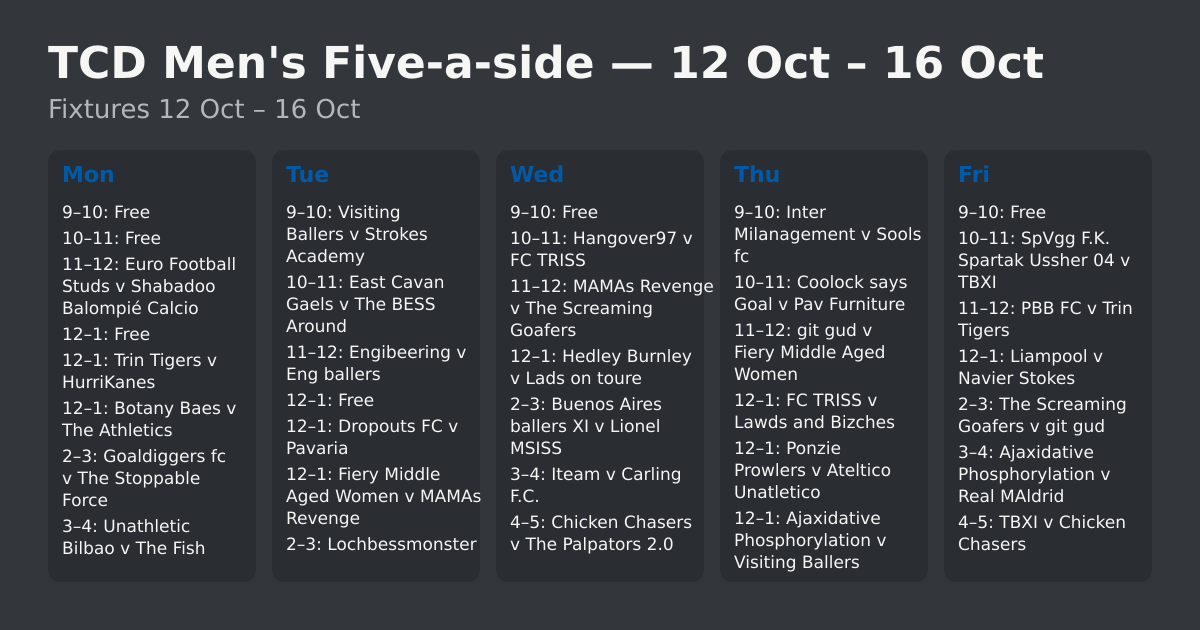
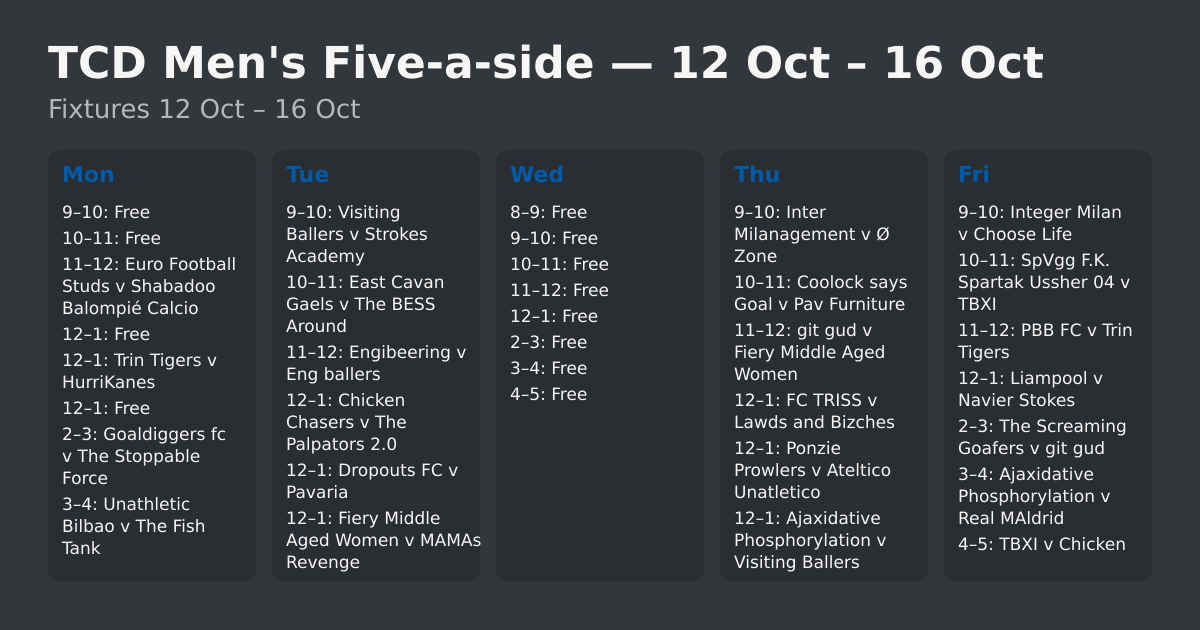
Sync fixtures from Google Sheet

diff --git a/src/data/seed.js b/src/data/seed.js
@@ -129,38 +129,33 @@ const WEEKS = [
     tab: 'Week 3 12th',
     matches: [
       { day: 'tuesday', time: '9-10am', venue: 'botany_bay', home: 'Visiting Ballers', away: 'Strokes Academy', color: '#D5A6BD', division: 'Division 7' },
-      { day: 'thursday', time: '9-10am', venue: 'botany_bay', home: 'Inter Milanagement', away: 'Sools fc', color: '#B6D7A8', division: 'Division 4' },
+      { day: 'thursday', time: '9-10am', venue: 'botany_bay', home: 'Inter Milanagement', away: 'Ø Zone', color: '#B6D7A8', division: 'Division 4' },
+      { day: 'friday', time: '9-10am', venue: 'botany_bay', home: 'Integer Milan', away: 'Choose Life', color: '#EA9999', division: 'Division 1' },
       { day: 'tuesday', time: '10-11am', venue: 'botany_bay', home: 'East Cavan Gaels', away: 'The BESS Around', color: '#F9CB9C', division: 'Division 2' },
-      { day: 'wednesday', time: '10-11am', venue: 'botany_bay', home: 'Hangover97', away: 'FC TRISS', color: '#FFE599', division: 'Division 3' },
       { day: 'thursday', time: '10-11am', venue: 'botany_bay', home: 'Coolock says Goal', away: 'Pav Furniture', color: '#FFE599', division: 'Division 3' },
       { day: 'friday', time: '10-11am', venue: 'botany_bay', home: 'SpVgg F.K. Spartak Ussher 04', away: 'TBXI', color: '#A4C2F4', division: 'Division 5' },
       { day: 'monday', time: '11-12pm', venue: 'botany_bay', home: 'Euro Football Studs', away: 'Shabadoo Balompié Calcio', color: '#6AA84F', division: 'Mixed Division' },
       { day: 'tuesday', time: '11-12pm', venue: 'botany_bay', home: 'Engibeering', away: 'Eng ballers', color: '#EA9999', division: 'Division 1' },
-      { day: 'wednesday', time: '11-12pm', venue: 'botany_bay', home: 'MAMAs Revenge', away: 'The Screaming Goafers', color: '#6AA84F', division: 'Mixed Division' },
       { day: 'thursday', time: '11-12pm', venue: 'botany_bay', home: 'git gud', away: 'Fiery Middle Aged Women', color: '#6AA84F', division: 'Mixed Division' },
       { day: 'friday', time: '11-12pm', venue: 'botany_bay', home: 'PBB FC', away: 'Trin Tigers', color: '#B4A7D6', division: 'Division 6' },
-      { day: 'wednesday', time: '12-1pm', venue: 'botany_bay', home: 'Hedley Burnley', away: 'Lads on toure', color: '#F9CB9C', division: 'Division 2' },
+      { day: 'tuesday', time: '12-1pm', venue: 'botany_bay', home: 'Chicken Chasers', away: 'The Palpators 2.0', color: '#A4C2F4', division: 'Division 5' },
       { day: 'thursday', time: '12-1pm', venue: 'botany_bay', home: 'FC TRISS', away: 'Lawds and Bizches', color: '#6AA84F', division: 'Mixed Division' },
       { day: 'friday', time: '12-1pm', venue: 'botany_bay', home: 'Liampool', away: 'Navier Stokes', color: '#F9CB9C', division: 'Division 2' },
       { day: 'monday', time: '2-3pm', venue: 'botany_bay', home: 'Goaldiggers fc', away: 'The Stoppable Force', color: '#D5A6BD', division: 'Division 7' },
       { day: 'tuesday', time: '2-3pm', venue: 'botany_bay', home: 'Lochbessmonster', away: 'TPSG', color: '#FFE599', division: 'Division 3' },
-      { day: 'wednesday', time: '2-3pm', venue: 'botany_bay', home: 'Buenos Aires ballers XI', away: 'Lionel MSISS', color: '#FFE599', division: 'Division 3' },
       { day: 'thursday', time: '2-3pm', venue: 'botany_bay', home: 'CSB FC', away: 'Reels Betis', color: '#B6D7A8', division: 'Division 4' },
       { day: 'friday', time: '2-3pm', venue: 'botany_bay', home: 'The Screaming Goafers', away: 'git gud', color: '#6AA84F', division: 'Mixed Division' },
       { day: 'monday', time: '3-4pm', venue: 'botany_bay', home: 'Unathletic Bilbao', away: 'The Fish Tank', color: '#B6D7A8', division: 'Division 4' },
       { day: 'tuesday', time: '3-4pm', venue: 'botany_bay', home: 'Wings of a Sparrow', away: 'River dodder rodent', color: '#B4A7D6', division: 'Division 6' },
-      { day: 'wednesday', time: '3-4pm', venue: 'botany_bay', home: 'Iteam', away: 'Carling F.C.', color: '#A4C2F4', division: 'Division 5' },
       { day: 'thursday', time: '3-4pm', venue: 'botany_bay', home: 'Ø Zone', away: 'Real Medrid', color: '#B6D7A8', division: 'Division 4' },
       { day: 'friday', time: '3-4pm', venue: 'botany_bay', home: 'Ajaxidative Phosphorylation', away: 'Real MAldrid', color: '#D5A6BD', division: 'Division 7' },
       { day: 'monday', time: '4-5pm', venue: 'botany_bay', home: 'Ctrl Alt Defeat', away: 'Roman Empire', color: '#B4A7D6', division: 'Division 6' },
       { day: 'tuesday', time: '4-5pm', venue: 'botany_bay', home: 'Himmy Saville', away: 'Mauled by the trinners', color: '#A4C2F4', division: 'Division 5' },
-      { day: 'wednesday', time: '4-5pm', venue: 'botany_bay', home: 'Chicken Chasers', away: 'The Palpators 2.0', color: '#A4C2F4', division: 'Division 5' },
       { day: 'thursday', time: '4-5pm', venue: 'botany_bay', home: 'HurriKanes', away: 'Hack Tuah', color: '#B4A7D6', division: 'Division 6' },
       { day: 'friday', time: '4-5pm', venue: 'botany_bay', home: 'TBXI', away: 'Chicken Chasers', color: '#A4C2F4', division: 'Division 5' },
       { day: 'monday', time: '12-1pm', venue: 'hall_a', home: 'Trin Tigers', away: 'HurriKanes', color: '#B4A7D6', division: 'Division 6' },
       { day: 'tuesday', time: '12-1pm', venue: 'hall_a', home: 'Dropouts FC', away: 'Pavaria', color: '#F9CB9C', division: 'Division 2' },
       { day: 'thursday', time: '12-1pm', venue: 'hall_a', home: 'Ponzie Prowlers', away: 'Ateltico Unatletico', color: '#D5A6BD', division: 'Division 7' },
-      { day: 'monday', time: '12-1pm', venue: 'hall_b', home: 'Botany Baes', away: 'The Athletics', color: '#6AA84F', division: 'Mixed Division' },
       { day: 'tuesday', time: '12-1pm', venue: 'hall_b', home: 'Fiery Middle Aged Women', away: 'MAMAs Revenge', color: '#6AA84F', division: 'Mixed Division' },
       { day: 'thursday', time: '12-1pm', venue: 'hall_b', home: 'Ajaxidative Phosphorylation', away: 'Visiting Ballers', color: '#D5A6BD', division: 'Division 7' },
     ],
@@ -168,18 +163,15 @@ const WEEKS = [
       { day: 'friday', time: '12-1pm', venue: 'hall_a', status: 'unavailable' },
       { day: 'friday', time: '12-1pm', venue: 'hall_b', status: 'unavailable' },
       { day: 'friday', time: '8-9am', venue: 'botany_bay', status: 'unavailable' },
-      { day: 'friday', time: '9-10am', venue: 'botany_bay', status: 'free' },
       { day: 'monday', time: '10-11am', venue: 'botany_bay', status: 'free' },
       { day: 'monday', time: '12-1pm', venue: 'botany_bay', status: 'free' },
+      { day: 'monday', time: '12-1pm', venue: 'hall_b', status: 'free' },
       { day: 'monday', time: '8-9am', venue: 'botany_bay', status: 'unavailable' },
       { day: 'monday', time: '9-10am', venue: 'botany_bay', status: 'free' },
       { day: 'thursday', time: '8-9am', venue: 'botany_bay', status: 'unavailable' },
-      { day: 'tuesday', time: '12-1pm', venue: 'botany_bay', status: 'free' },
       { day: 'tuesday', time: '8-9am', venue: 'botany_bay', status: 'unavailable' },
       { day: 'wednesday', time: '12-1pm', venue: 'hall_a', status: 'unavailable' },
       { day: 'wednesday', time: '12-1pm', venue: 'hall_b', status: 'unavailable' },
-      { day: 'wednesday', time: '8-9am', venue: 'botany_bay', status: 'unavailable' },
-      { day: 'wednesday', time: '9-10am', venue: 'botany_bay', status: 'free' },
     ],
   },
   {
@@ -187,36 +179,29 @@ const WEEKS = [
     tab: 'Week 4 19th',
     matches: [
       { day: 'monday', time: '9-10am', venue: 'botany_bay', home: 'Lionel MSISS', away: 'Coolock says Goal', color: '#FFE599', division: 'Division 3' },
-      { day: 'tuesday', time: '9-10am', venue: 'botany_bay', home: 'The Fish Tank', away: 'Inter Milanagement', color: '#B6D7A8', division: 'Division 4' },
-      { day: 'wednesday', time: '9-10am', venue: 'botany_bay', home: 'Shabadoo Balompié Calcio', away: 'FC TRISS', color: '#6AA84F', division: 'Mixed Division' },
       { day: 'thursday', time: '9-10am', venue: 'botany_bay', home: 'git gud', away: 'MAMAs Revenge', color: '#6AA84F', division: 'Mixed Division' },
       { day: 'friday', time: '9-10am', venue: 'botany_bay', home: 'The Stoppable Force', away: 'Ponzie Prowlers', color: '#D5A6BD', division: 'Division 7' },
       { day: 'monday', time: '10-11am', venue: 'botany_bay', home: 'TBXI', away: 'Himmy Saville', color: '#A4C2F4', division: 'Division 5' },
       { day: 'tuesday', time: '10-11am', venue: 'botany_bay', home: 'Euro football studs', away: 'Lawds and Bizches', color: '#6AA84F', division: 'Mixed Division' },
-      { day: 'wednesday', time: '10-11am', venue: 'botany_bay', home: 'Lads on toure', away: 'Liampool', color: '#F9CB9C', division: 'Division 2' },
       { day: 'thursday', time: '10-11am', venue: 'botany_bay', home: 'The Palpators 2.0', away: 'SpVgg F.K. Spartak Ussher 04', color: '#A4C2F4', division: 'Division 5' },
       { day: 'friday', time: '10-11am', venue: 'botany_bay', home: 'Navier Stokes', away: 'East Cavan Gaels', color: '#F9CB9C', division: 'Division 2' },
       { day: 'monday', time: '11-12pm', venue: 'botany_bay', home: 'Roman Empire', away: 'HurriKanes', color: '#B4A7D6', division: 'Division 6' },
       { day: 'tuesday', time: '11-12pm', venue: 'botany_bay', home: 'Egg Fried Reus', away: 'Integer Milan', color: '#EA9999', division: 'Division 1' },
-      { day: 'wednesday', time: '11-12pm', venue: 'botany_bay', home: 'Choose Life', away: 'Mountjoy FC', color: '#EA9999', division: 'Division 1' },
       { day: 'thursday', time: '11-12pm', venue: 'botany_bay', home: 'Trin Tigers', away: 'Wings of a Sparrow', color: '#B4A7D6', division: 'Division 6' },
       { day: 'friday', time: '11-12pm', venue: 'botany_bay', home: 'Reels Betis', away: 'Unathletic Bilbao', color: '#B6D7A8', division: 'Division 4' },
       { day: 'monday', time: '12-1pm', venue: 'botany_bay', home: 'Hack Tuah', away: 'PBB FC', color: '#B4A7D6', division: 'Division 6' },
       { day: 'tuesday', time: '12-1pm', venue: 'botany_bay', home: 'Barely Athletic FC', away: 'Engibeering', color: '#EA9999', division: 'Division 1' },
-      { day: 'wednesday', time: '12-1pm', venue: 'botany_bay', home: 'Real MAldrid', away: 'Visiting Ballers', color: '#D5A6BD', division: 'Division 7' },
       { day: 'thursday', time: '12-1pm', venue: 'botany_bay', home: 'Fiery Middle Aged Women', away: 'Botany Baes', color: '#6AA84F', division: 'Mixed Division' },
       { day: 'friday', time: '12-1pm', venue: 'botany_bay', home: 'The BESS Around', away: 'Dropouts FC', color: '#F9CB9C', division: 'Division 2' },
       { day: 'monday', time: '2-3pm', venue: 'botany_bay', home: 'Pav Furniture', away: 'Hangover97', color: '#FFE599', division: 'Division 3' },
       { day: 'tuesday', time: '2-3pm', venue: 'botany_bay', home: 'Mauled by the trinners', away: 'Iteam', color: '#A4C2F4', division: 'Division 5' },
-      { day: 'wednesday', time: '2-3pm', venue: 'botany_bay', home: 'FC TRISS', away: 'Lochbessmonster', color: '#FFE599', division: 'Division 3' },
+      { day: 'thursday', time: '2-3pm', venue: 'botany_bay', home: 'The Fish Tank', away: 'Inter Milanagement', color: '#B6D7A8', division: 'Division 4' },
       { day: 'friday', time: '2-3pm', venue: 'botany_bay', home: 'Ateltico Unatletico', away: 'Ajaxidative Phosphorylation', color: '#D5A6BD', division: 'Division 7' },
       { day: 'monday', time: '3-4pm', venue: 'botany_bay', home: 'River dodder rodent', away: 'Ctrl Alt Defeat', color: '#B4A7D6', division: 'Division 6' },
       { day: 'tuesday', time: '3-4pm', venue: 'botany_bay', home: 'TPSG', away: 'Buenos Aires ballers XI', color: '#FFE599', division: 'Division 3' },
-      { day: 'wednesday', time: '3-4pm', venue: 'botany_bay', home: 'Pavaria', away: 'Hedley Burnley', color: '#F9CB9C', division: 'Division 2' },
       { day: 'thursday', time: '3-4pm', venue: 'botany_bay', home: 'Real Medrid', away: 'CSB FC', color: '#B6D7A8', division: 'Division 4' },
       { day: 'monday', time: '4-5pm', venue: 'botany_bay', home: 'Eng ballers', away: 'Pavillionaires', color: '#EA9999', division: 'Division 1' },
       { day: 'tuesday', time: '4-5pm', venue: 'botany_bay', home: 'Strokes Academy', away: 'Goaldiggers fc', color: '#D5A6BD', division: 'Division 7' },
-      { day: 'wednesday', time: '4-5pm', venue: 'botany_bay', home: 'Carling F.C.', away: 'Chicken Chasers', color: '#A4C2F4', division: 'Division 5' },
       { day: 'thursday', time: '4-5pm', venue: 'botany_bay', home: 'Sools fc', away: 'Ø Zone', color: '#B6D7A8', division: 'Division 4' },
       { day: 'monday', time: '12-1pm', venue: 'hall_b', home: 'Lawds and Bizches', away: 'Botany Baes', color: '#6AA84F', division: 'Mixed Division' },
       { day: 'tuesday', time: '12-1pm', venue: 'hall_b', home: 'The Screaming Goafers', away: 'The Athletics', color: '#6AA84F', division: 'Mixed Division' },
@@ -231,13 +216,63 @@ const WEEKS = [
       { day: 'monday', time: '8-9am', venue: 'botany_bay', status: 'unavailable' },
       { day: 'thursday', time: '12-1pm', venue: 'hall_a', status: 'free' },
       { day: 'thursday', time: '12-1pm', venue: 'hall_b', status: 'free' },
-      { day: 'thursday', time: '2-3pm', venue: 'botany_bay', status: 'free' },
       { day: 'thursday', time: '8-9am', venue: 'botany_bay', status: 'unavailable' },
       { day: 'tuesday', time: '12-1pm', venue: 'hall_a', status: 'free' },
       { day: 'tuesday', time: '8-9am', venue: 'botany_bay', status: 'unavailable' },
+      { day: 'tuesday', time: '9-10am', venue: 'botany_bay', status: 'free' },
       { day: 'wednesday', time: '12-1pm', venue: 'hall_a', status: 'unavailable' },
       { day: 'wednesday', time: '12-1pm', venue: 'hall_b', status: 'unavailable' },
+    ],
+  },
+  {
+    startsOn: '2026-10-26',
+    tab: 'READING WEEK',
+    matches: [
+
+    ],
+    slotOverrides: [
+      { day: 'friday', time: '10-11am', venue: 'botany_bay', status: 'free' },
+      { day: 'friday', time: '11-12pm', venue: 'botany_bay', status: 'free' },
+      { day: 'friday', time: '12-1pm', venue: 'botany_bay', status: 'free' },
+      { day: 'friday', time: '12-1pm', venue: 'hall_a', status: 'unavailable' },
+      { day: 'friday', time: '12-1pm', venue: 'hall_b', status: 'unavailable' },
+      { day: 'friday', time: '2-3pm', venue: 'botany_bay', status: 'free' },
+      { day: 'friday', time: '3-4pm', venue: 'botany_bay', status: 'free' },
+      { day: 'friday', time: '4-5pm', venue: 'botany_bay', status: 'free' },
+      { day: 'friday', time: '8-9am', venue: 'botany_bay', status: 'unavailable' },
+      { day: 'friday', time: '9-10am', venue: 'botany_bay', status: 'free' },
+      { day: 'monday', time: '12-1pm', venue: 'hall_a', status: 'free' },
+      { day: 'monday', time: '12-1pm', venue: 'hall_b', status: 'free' },
+      { day: 'thursday', time: '10-11am', venue: 'botany_bay', status: 'free' },
+      { day: 'thursday', time: '11-12pm', venue: 'botany_bay', status: 'free' },
+      { day: 'thursday', time: '12-1pm', venue: 'botany_bay', status: 'free' },
+      { day: 'thursday', time: '12-1pm', venue: 'hall_a', status: 'free' },
+      { day: 'thursday', time: '12-1pm', venue: 'hall_b', status: 'free' },
+      { day: 'thursday', time: '2-3pm', venue: 'botany_bay', status: 'free' },
+      { day: 'thursday', time: '3-4pm', venue: 'botany_bay', status: 'free' },
+      { day: 'thursday', time: '4-5pm', venue: 'botany_bay', status: 'free' },
+      { day: 'thursday', time: '8-9am', venue: 'botany_bay', status: 'unavailable' },
+      { day: 'thursday', time: '9-10am', venue: 'botany_bay', status: 'free' },
+      { day: 'tuesday', time: '10-11am', venue: 'botany_bay', status: 'free' },
+      { day: 'tuesday', time: '11-12pm', venue: 'botany_bay', status: 'free' },
+      { day: 'tuesday', time: '12-1pm', venue: 'botany_bay', status: 'free' },
+      { day: 'tuesday', time: '12-1pm', venue: 'hall_a', status: 'free' },
+      { day: 'tuesday', time: '12-1pm', venue: 'hall_b', status: 'free' },
+      { day: 'tuesday', time: '2-3pm', venue: 'botany_bay', status: 'free' },
+      { day: 'tuesday', time: '3-4pm', venue: 'botany_bay', status: 'free' },
+      { day: 'tuesday', time: '4-5pm', venue: 'botany_bay', status: 'free' },
+      { day: 'tuesday', time: '8-9am', venue: 'botany_bay', status: 'unavailable' },
+      { day: 'tuesday', time: '9-10am', venue: 'botany_bay', status: 'free' },
+      { day: 'wednesday', time: '10-11am', venue: 'botany_bay', status: 'free' },
+      { day: 'wednesday', time: '11-12pm', venue: 'botany_bay', status: 'free' },
+      { day: 'wednesday', time: '12-1pm', venue: 'botany_bay', status: 'free' },
+      { day: 'wednesday', time: '12-1pm', venue: 'hall_a', status: 'unavailable' },
+      { day: 'wednesday', time: '12-1pm', venue: 'hall_b', status: 'unavailable' },
+      { day: 'wednesday', time: '2-3pm', venue: 'botany_bay', status: 'free' },
+      { day: 'wednesday', time: '3-4pm', venue: 'botany_bay', status: 'free' },
+      { day: 'wednesday', time: '4-5pm', venue: 'botany_bay', status: 'free' },
       { day: 'wednesday', time: '8-9am', venue: 'botany_bay', status: 'unavailable' },
+      { day: 'wednesday', time: '9-10am', venue: 'botany_bay', status: 'free' },
     ],
   },
   {

diff --git a/index.html b/index.html
@@ -8,18 +8,18 @@
     />
     <meta name="theme-color" content="#33363b" />
     <!-- SHARE-META:START -->
-    <meta name="description" content="Mon:&#10;• 9–10 (Bay): Free slot&#10;• 10–11 (Bay): Free slot&#10;• 11–12 (Bay): Euro Football Studs v Shabadoo Balompié Calcio&#10;• 12–1 (Bay): Free slot&#10;• 12–1 (Hall A): Trin Tigers v HurriKanes&#10;• 12–1 (Hall B): Botany Baes v The Athletics&#10;• 2–3 (Bay): Goaldiggers fc v The Stoppable Force&#10;• 3–4 (Bay): Unathletic Bilbao v The Fish Tank&#10;• 4–5 (Bay): Ctrl Alt Defeat v Roman Empire&#10;Tue:&#10;• 9–10 (Bay): Visiting Ballers v Strokes Academy&#10;• 10–11 (Bay): East Cavan Gaels v The BESS Around&#10;• 11–12 (Bay): Engibeering v Eng ballers&#10;• 12–1 (Bay): Free slot&#10;• 12–1 (Hall A): Dropouts FC v Pavaria&#10;• 12–1 (Hall B): Fiery Middle Aged Women v MAMAs Revenge&#10;• 2–3 (Bay): Lochbessmonster v TPSG&#10;• 3–4 (Bay): Wings of a Sparrow v River dodder rodent&#10;• 4–5 (Bay): Himmy Saville v Mauled by the trinners&#10;Wed:&#10;• 9–10 (Bay): Free slot&#10;• 10–11 (Bay): Hangover97 v FC TRISS&#10;• 11–12 (Bay): MAMAs Revenge v The Screaming Goafers&#10;• 12–1 (Bay): Hedley Burnley v Lads on toure&#10;• 2–3 (Bay): Buenos Aires ballers XI v Lionel MSISS&#10;• 3–4 (Bay): Iteam v Carling F.C.&#10;• 4–5 (Bay): Chicken Chasers v The Palpators 2.0&#10;Thu:&#10;• 9–10 (Bay): Inter Milanagement v Sools fc&#10;• 10–11 (Bay): Coolock says Goal v Pav Furniture&#10;• 11–12 (Bay): git gud v Fiery Middle Aged Women&#10;• 12–1 (Bay): FC TRISS v Lawds and Bizches&#10;• 12–1 (Hall A): Ponzie Prowlers v Ateltico Unatletico&#10;• 12–1 (Hall B): Ajaxidative Phosphorylation v Visiting Ballers&#10;• 2–3 (Bay): CSB FC v Reels Betis&#10;• 3–4 (Bay): Ø Zone v Real Medrid&#10;• 4–5 (Bay): HurriKanes v Hack Tuah&#10;Fri:&#10;• 9–10 (Bay): Free slot&#10;• 10–11 (Bay): SpVgg F.K. Spartak Ussher 04 v TBXI&#10;• 11–12 (Bay): PBB FC v Trin Tigers&#10;• 12–1 (Bay): Liampool v Navier Stokes&#10;• 2–3 (Bay): The Screaming Goafers v git gud&#10;• 3–4 (Bay): Ajaxidative Phosphorylation v Real MAldrid&#10;• 4–5 (Bay): TBXI v Chicken Chasers" />
+    <meta name="description" content="Mon:&#10;• 9–10 (Bay): Free slot&#10;• 10–11 (Bay): Free slot&#10;• 11–12 (Bay): Euro Football Studs v Shabadoo Balompié Calcio&#10;• 12–1 (Bay): Free slot&#10;• 12–1 (Hall A): Trin Tigers v HurriKanes&#10;• 12–1 (Hall B): Free slot&#10;• 2–3 (Bay): Goaldiggers fc v The Stoppable Force&#10;• 3–4 (Bay): Unathletic Bilbao v The Fish Tank&#10;• 4–5 (Bay): Ctrl Alt Defeat v Roman Empire&#10;Tue:&#10;• 9–10 (Bay): Visiting Ballers v Strokes Academy&#10;• 10–11 (Bay): East Cavan Gaels v The BESS Around&#10;• 11–12 (Bay): Engibeering v Eng ballers&#10;• 12–1 (Bay): Chicken Chasers v The Palpators 2.0&#10;• 12–1 (Hall A): Dropouts FC v Pavaria&#10;• 12–1 (Hall B): Fiery Middle Aged Women v MAMAs Revenge&#10;• 2–3 (Bay): Lochbessmonster v TPSG&#10;• 3–4 (Bay): Wings of a Sparrow v River dodder rodent&#10;• 4–5 (Bay): Himmy Saville v Mauled by the trinners&#10;Wed:&#10;• 8–9 (Bay): Free slot&#10;• 9–10 (Bay): Free slot&#10;• 10–11 (Bay): Free slot&#10;• 11–12 (Bay): Free slot&#10;• 12–1 (Bay): Free slot&#10;• 2–3 (Bay): Free slot&#10;• 3–4 (Bay): Free slot&#10;• 4–5 (Bay): Free slot&#10;Thu:&#10;• 9–10 (Bay): Inter Milanagement v Ø Zone&#10;• 10–11 (Bay): Coolock says Goal v Pav Furniture&#10;• 11–12 (Bay): git gud v Fiery Middle Aged Women&#10;• 12–1 (Bay): FC TRISS v Lawds and Bizches&#10;• 12–1 (Hall A): Ponzie Prowlers v Ateltico Unatletico&#10;• 12–1 (Hall B): Ajaxidative Phosphorylation v Visiting Ballers&#10;• 2–3 (Bay): CSB FC v Reels Betis&#10;• 3–4 (Bay): Ø Zone v Real Medrid&#10;• 4–5 (Bay): HurriKanes v Hack Tuah&#10;Fri:&#10;• 9–10 (Bay): Integer Milan v Choose Life&#10;• 10–11 (Bay): SpVgg F.K. Spartak Ussher 04 v TBXI&#10;• 11–12 (Bay): PBB FC v Trin Tigers&#10;• 12–1 (Bay): Liampool v Navier Stokes&#10;• 2–3 (Bay): The Screaming Goafers v git gud&#10;• 3–4 (Bay): Ajaxidative Phosphorylation v Real MAldrid&#10;• 4–5 (Bay): TBXI v Chicken Chasers" />
     <meta property="og:type" content="website" />
     <meta property="og:site_name" content="TCD Men's Five-a-side" />
     <meta property="og:url" content="https://fiveside.vercel.app/" />
     <meta property="og:title" content="TCD Men's Five-a-side — 12 Oct – 16 Oct" />
-    <meta property="og:description" content="Mon:&#10;• 9–10 (Bay): Free slot&#10;• 10–11 (Bay): Free slot&#10;• 11–12 (Bay): Euro Football Studs v Shabadoo Balompié Calcio&#10;• 12–1 (Bay): Free slot&#10;• 12–1 (Hall A): Trin Tigers v HurriKanes&#10;• 12–1 (Hall B): Botany Baes v The Athletics&#10;• 2–3 (Bay): Goaldiggers fc v The Stoppable Force&#10;• 3–4 (Bay): Unathletic Bilbao v The Fish Tank&#10;• 4–5 (Bay): Ctrl Alt Defeat v Roman Empire&#10;Tue:&#10;• 9–10 (Bay): Visiting Ballers v Strokes Academy&#10;• 10–11 (Bay): East Cavan Gaels v The BESS Around&#10;• 11–12 (Bay): Engibeering v Eng ballers&#10;• 12–1 (Bay): Free slot&#10;• 12–1 (Hall A): Dropouts FC v Pavaria&#10;• 12–1 (Hall B): Fiery Middle Aged Women v MAMAs Revenge&#10;• 2–3 (Bay): Lochbessmonster v TPSG&#10;• 3–4 (Bay): Wings of a Sparrow v River dodder rodent&#10;• 4–5 (Bay): Himmy Saville v Mauled by the trinners&#10;Wed:&#10;• 9–10 (Bay): Free slot&#10;• 10–11 (Bay): Hangover97 v FC TRISS&#10;• 11–12 (Bay): MAMAs Revenge v The Screaming Goafers&#10;• 12–1 (Bay): Hedley Burnley v Lads on toure&#10;• 2–3 (Bay): Buenos Aires ballers XI v Lionel MSISS&#10;• 3–4 (Bay): Iteam v Carling F.C.&#10;• 4–5 (Bay): Chicken Chasers v The Palpators 2.0&#10;Thu:&#10;• 9–10 (Bay): Inter Milanagement v Sools fc&#10;• 10–11 (Bay): Coolock says Goal v Pav Furniture&#10;• 11–12 (Bay): git gud v Fiery Middle Aged Women&#10;• 12–1 (Bay): FC TRISS v Lawds and Bizches&#10;• 12–1 (Hall A): Ponzie Prowlers v Ateltico Unatletico&#10;• 12–1 (Hall B): Ajaxidative Phosphorylation v Visiting Ballers&#10;• 2–3 (Bay): CSB FC v Reels Betis&#10;• 3–4 (Bay): Ø Zone v Real Medrid&#10;• 4–5 (Bay): HurriKanes v Hack Tuah&#10;Fri:&#10;• 9–10 (Bay): Free slot&#10;• 10–11 (Bay): SpVgg F.K. Spartak Ussher 04 v TBXI&#10;• 11–12 (Bay): PBB FC v Trin Tigers&#10;• 12–1 (Bay): Liampool v Navier Stokes&#10;• 2–3 (Bay): The Screaming Goafers v git gud&#10;• 3–4 (Bay): Ajaxidative Phosphorylation v Real MAldrid&#10;• 4–5 (Bay): TBXI v Chicken Chasers" />
+    <meta property="og:description" content="Mon:&#10;• 9–10 (Bay): Free slot&#10;• 10–11 (Bay): Free slot&#10;• 11–12 (Bay): Euro Football Studs v Shabadoo Balompié Calcio&#10;• 12–1 (Bay): Free slot&#10;• 12–1 (Hall A): Trin Tigers v HurriKanes&#10;• 12–1 (Hall B): Free slot&#10;• 2–3 (Bay): Goaldiggers fc v The Stoppable Force&#10;• 3–4 (Bay): Unathletic Bilbao v The Fish Tank&#10;• 4–5 (Bay): Ctrl Alt Defeat v Roman Empire&#10;Tue:&#10;• 9–10 (Bay): Visiting Ballers v Strokes Academy&#10;• 10–11 (Bay): East Cavan Gaels v The BESS Around&#10;• 11–12 (Bay): Engibeering v Eng ballers&#10;• 12–1 (Bay): Chicken Chasers v The Palpators 2.0&#10;• 12–1 (Hall A): Dropouts FC v Pavaria&#10;• 12–1 (Hall B): Fiery Middle Aged Women v MAMAs Revenge&#10;• 2–3 (Bay): Lochbessmonster v TPSG&#10;• 3–4 (Bay): Wings of a Sparrow v River dodder rodent&#10;• 4–5 (Bay): Himmy Saville v Mauled by the trinners&#10;Wed:&#10;• 8–9 (Bay): Free slot&#10;• 9–10 (Bay): Free slot&#10;• 10–11 (Bay): Free slot&#10;• 11–12 (Bay): Free slot&#10;• 12–1 (Bay): Free slot&#10;• 2–3 (Bay): Free slot&#10;• 3–4 (Bay): Free slot&#10;• 4–5 (Bay): Free slot&#10;Thu:&#10;• 9–10 (Bay): Inter Milanagement v Ø Zone&#10;• 10–11 (Bay): Coolock says Goal v Pav Furniture&#10;• 11–12 (Bay): git gud v Fiery Middle Aged Women&#10;• 12–1 (Bay): FC TRISS v Lawds and Bizches&#10;• 12–1 (Hall A): Ponzie Prowlers v Ateltico Unatletico&#10;• 12–1 (Hall B): Ajaxidative Phosphorylation v Visiting Ballers&#10;• 2–3 (Bay): CSB FC v Reels Betis&#10;• 3–4 (Bay): Ø Zone v Real Medrid&#10;• 4–5 (Bay): HurriKanes v Hack Tuah&#10;Fri:&#10;• 9–10 (Bay): Integer Milan v Choose Life&#10;• 10–11 (Bay): SpVgg F.K. Spartak Ussher 04 v TBXI&#10;• 11–12 (Bay): PBB FC v Trin Tigers&#10;• 12–1 (Bay): Liampool v Navier Stokes&#10;• 2–3 (Bay): The Screaming Goafers v git gud&#10;• 3–4 (Bay): Ajaxidative Phosphorylation v Real MAldrid&#10;• 4–5 (Bay): TBXI v Chicken Chasers" />
     <meta property="og:image" content="https://fiveside.vercel.app/og-timetable.png?v=2026-10-12" />
     <meta property="og:image:width" content="1200" />
     <meta property="og:image:height" content="630" />
     <meta name="twitter:card" content="summary_large_image" />
     <meta name="twitter:title" content="TCD Men's Five-a-side — 12 Oct – 16 Oct" />
-    <meta name="twitter:description" content="Mon:&#10;• 9–10 (Bay): Free slot&#10;• 10–11 (Bay): Free slot&#10;• 11–12 (Bay): Euro Football Studs v Shabadoo Balompié Calcio&#10;• 12–1 (Bay): Free slot&#10;• 12–1 (Hall A): Trin Tigers v HurriKanes&#10;• 12–1 (Hall B): Botany Baes v The Athletics&#10;• 2–3 (Bay): Goaldiggers fc v The Stoppable Force&#10;• 3–4 (Bay): Unathletic Bilbao v The Fish Tank&#10;• 4–5 (Bay): Ctrl Alt Defeat v Roman Empire&#10;Tue:&#10;• 9–10 (Bay): Visiting Ballers v Strokes Academy&#10;• 10–11 (Bay): East Cavan Gaels v The BESS Around&#10;• 11–12 (Bay): Engibeering v Eng ballers&#10;• 12–1 (Bay): Free slot&#10;• 12–1 (Hall A): Dropouts FC v Pavaria&#10;• 12–1 (Hall B): Fiery Middle Aged Women v MAMAs Revenge&#10;• 2–3 (Bay): Lochbessmonster v TPSG&#10;• 3–4 (Bay): Wings of a Sparrow v River dodder rodent&#10;• 4–5 (Bay): Himmy Saville v Mauled by the trinners&#10;Wed:&#10;• 9–10 (Bay): Free slot&#10;• 10–11 (Bay): Hangover97 v FC TRISS&#10;• 11–12 (Bay): MAMAs Revenge v The Screaming Goafers&#10;• 12–1 (Bay): Hedley Burnley v Lads on toure&#10;• 2–3 (Bay): Buenos Aires ballers XI v Lionel MSISS&#10;• 3–4 (Bay): Iteam v Carling F.C.&#10;• 4–5 (Bay): Chicken Chasers v The Palpators 2.0&#10;Thu:&#10;• 9–10 (Bay): Inter Milanagement v Sools fc&#10;• 10–11 (Bay): Coolock says Goal v Pav Furniture&#10;• 11–12 (Bay): git gud v Fiery Middle Aged Women&#10;• 12–1 (Bay): FC TRISS v Lawds and Bizches&#10;• 12–1 (Hall A): Ponzie Prowlers v Ateltico Unatletico&#10;• 12–1 (Hall B): Ajaxidative Phosphorylation v Visiting Ballers&#10;• 2–3 (Bay): CSB FC v Reels Betis&#10;• 3–4 (Bay): Ø Zone v Real Medrid&#10;• 4–5 (Bay): HurriKanes v Hack Tuah&#10;Fri:&#10;• 9–10 (Bay): Free slot&#10;• 10–11 (Bay): SpVgg F.K. Spartak Ussher 04 v TBXI&#10;• 11–12 (Bay): PBB FC v Trin Tigers&#10;• 12–1 (Bay): Liampool v Navier Stokes&#10;• 2–3 (Bay): The Screaming Goafers v git gud&#10;• 3–4 (Bay): Ajaxidative Phosphorylation v Real MAldrid&#10;• 4–5 (Bay): TBXI v Chicken Chasers" />
+    <meta name="twitter:description" content="Mon:&#10;• 9–10 (Bay): Free slot&#10;• 10–11 (Bay): Free slot&#10;• 11–12 (Bay): Euro Football Studs v Shabadoo Balompié Calcio&#10;• 12–1 (Bay): Free slot&#10;• 12–1 (Hall A): Trin Tigers v HurriKanes&#10;• 12–1 (Hall B): Free slot&#10;• 2–3 (Bay): Goaldiggers fc v The Stoppable Force&#10;• 3–4 (Bay): Unathletic Bilbao v The Fish Tank&#10;• 4–5 (Bay): Ctrl Alt Defeat v Roman Empire&#10;Tue:&#10;• 9–10 (Bay): Visiting Ballers v Strokes Academy&#10;• 10–11 (Bay): East Cavan Gaels v The BESS Around&#10;• 11–12 (Bay): Engibeering v Eng ballers&#10;• 12–1 (Bay): Chicken Chasers v The Palpators 2.0&#10;• 12–1 (Hall A): Dropouts FC v Pavaria&#10;• 12–1 (Hall B): Fiery Middle Aged Women v MAMAs Revenge&#10;• 2–3 (Bay): Lochbessmonster v TPSG&#10;• 3–4 (Bay): Wings of a Sparrow v River dodder rodent&#10;• 4–5 (Bay): Himmy Saville v Mauled by the trinners&#10;Wed:&#10;• 8–9 (Bay): Free slot&#10;• 9–10 (Bay): Free slot&#10;• 10–11 (Bay): Free slot&#10;• 11–12 (Bay): Free slot&#10;• 12–1 (Bay): Free slot&#10;• 2–3 (Bay): Free slot&#10;• 3–4 (Bay): Free slot&#10;• 4–5 (Bay): Free slot&#10;Thu:&#10;• 9–10 (Bay): Inter Milanagement v Ø Zone&#10;• 10–11 (Bay): Coolock says Goal v Pav Furniture&#10;• 11–12 (Bay): git gud v Fiery Middle Aged Women&#10;• 12–1 (Bay): FC TRISS v Lawds and Bizches&#10;• 12–1 (Hall A): Ponzie Prowlers v Ateltico Unatletico&#10;• 12–1 (Hall B): Ajaxidative Phosphorylation v Visiting Ballers&#10;• 2–3 (Bay): CSB FC v Reels Betis&#10;• 3–4 (Bay): Ø Zone v Real Medrid&#10;• 4–5 (Bay): HurriKanes v Hack Tuah&#10;Fri:&#10;• 9–10 (Bay): Integer Milan v Choose Life&#10;• 10–11 (Bay): SpVgg F.K. Spartak Ussher 04 v TBXI&#10;• 11–12 (Bay): PBB FC v Trin Tigers&#10;• 12–1 (Bay): Liampool v Navier Stokes&#10;• 2–3 (Bay): The Screaming Goafers v git gud&#10;• 3–4 (Bay): Ajaxidative Phosphorylation v Real MAldrid&#10;• 4–5 (Bay): TBXI v Chicken Chasers" />
     <meta name="twitter:image" content="https://fiveside.vercel.app/og-timetable.png?v=2026-10-12" />
     <!-- SHARE-META:END -->
     <title>TCD Men's Five-a-side — 12 Oct – 16 Oct</title>
